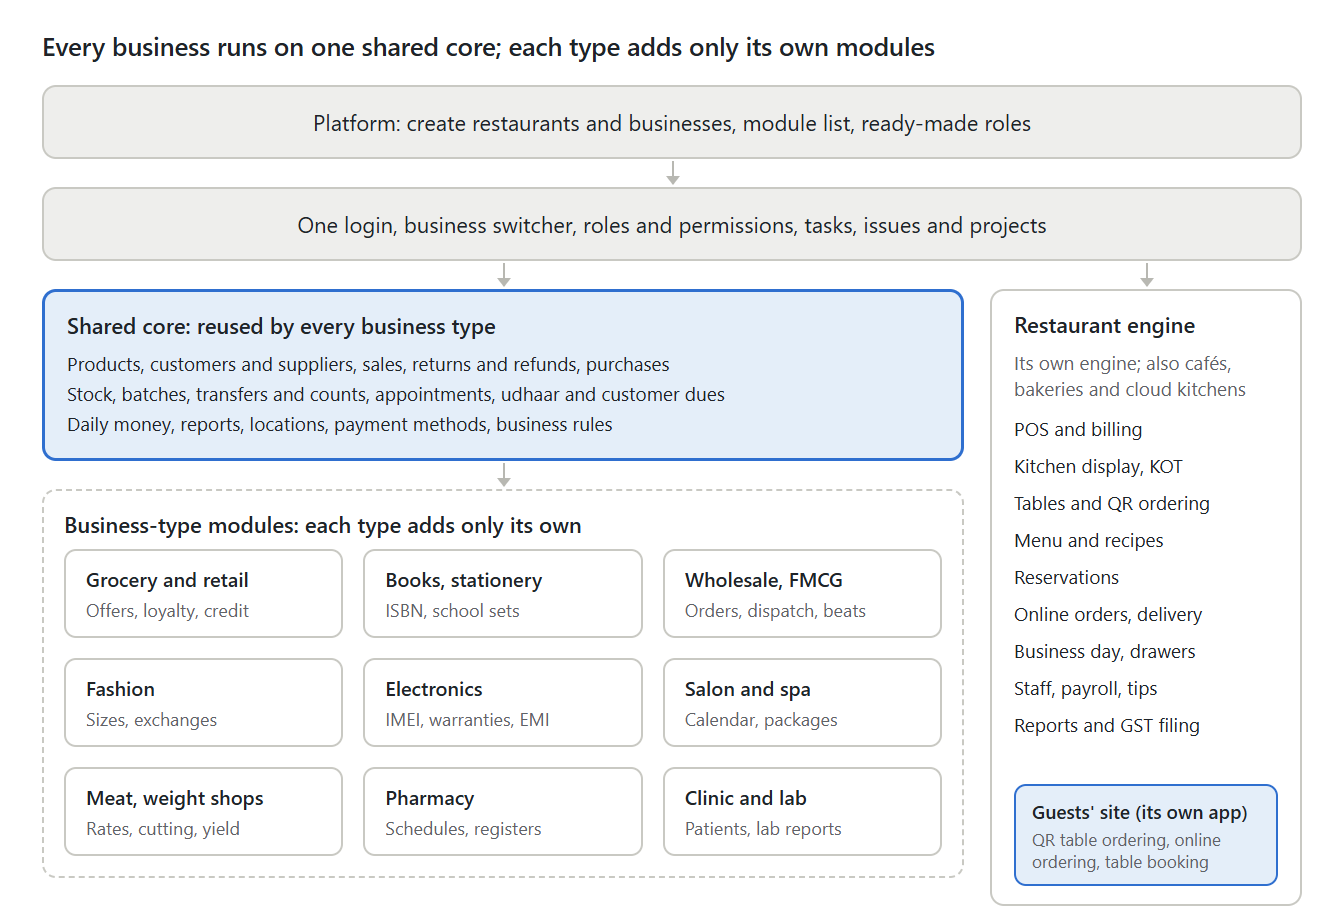
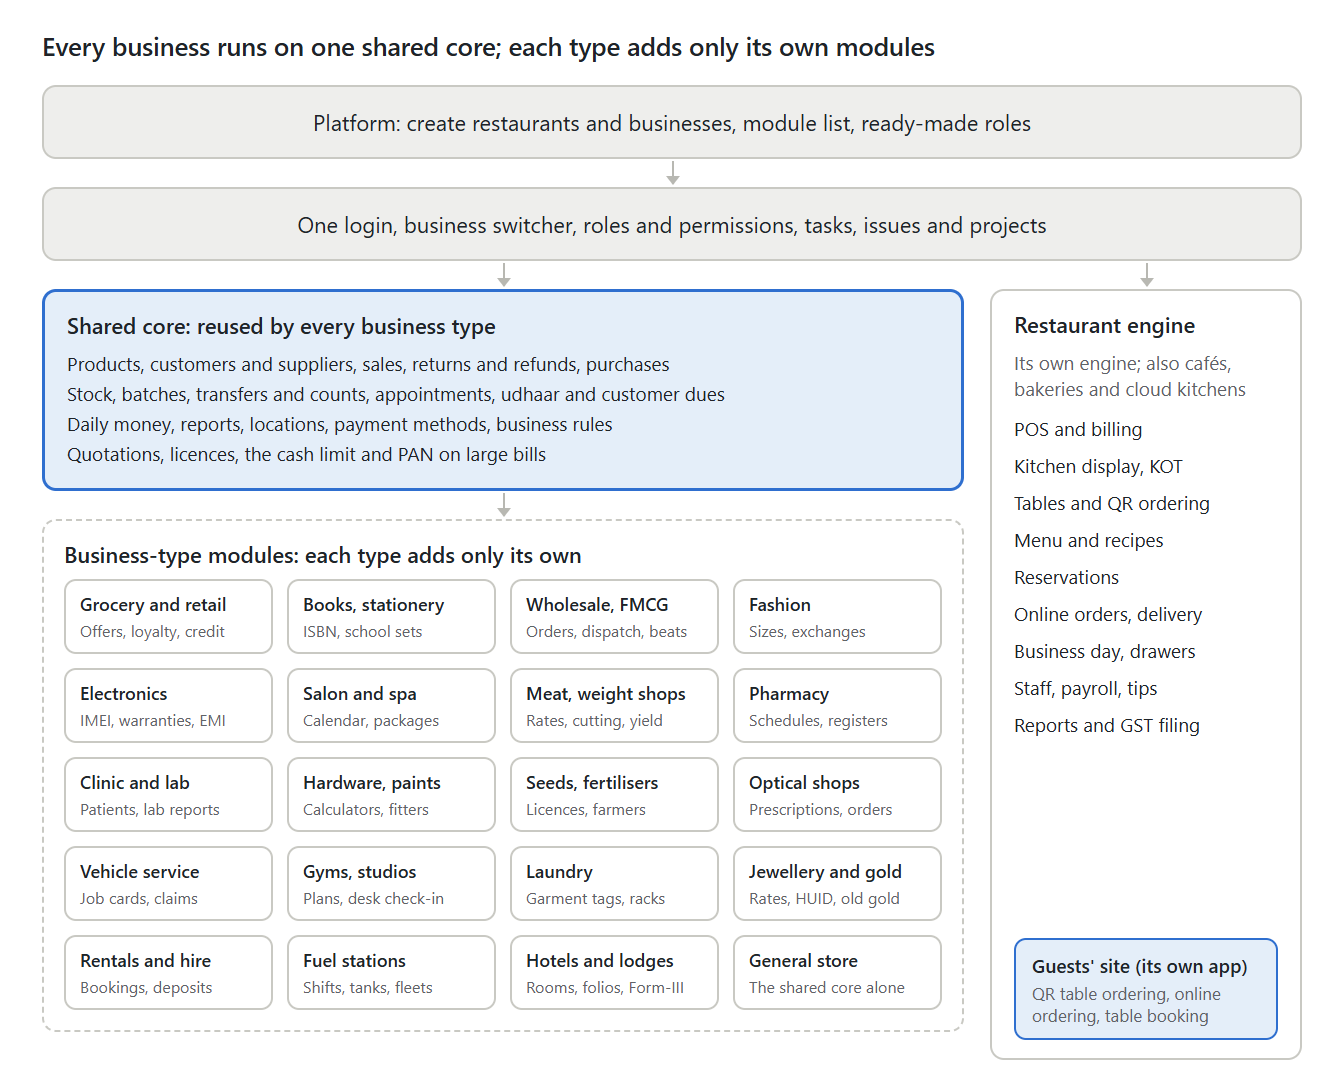
Overview diagram: every business type, and the newer shared tools
The diagram now shows all twenty business types (four cards a row) and
names quotations, licences, the cash limit and PAN in the shared core.

Changed region(s): [[0.0312, 0.0305, 0.9688, 0.9455], [0.75, 0.854, 0.9688, 1.0], [0.9375, 0.2745, 0.9688, 0.3355]]

diff --git a/docs/images/business-admin-overview.html b/docs/images/business-admin-overview.html
@@ -34,10 +34,10 @@
   .core h2, .types h2, .engine h2 { margin: 0 0 10px; font-size: 22px; font-weight: 600; }
   .core p { margin: 4px 0; font-size: 19px; }
   .types { border: 2px dashed var(--line); border-radius: 14px; padding: 18px 20px 20px; }
-  .grid { display: grid; grid-template-columns: repeat(3, 1fr); gap: 20px; }
-  .card { background: var(--card); border: 2px solid var(--line); border-radius: 12px; padding: 14px 20px; }
-  .card strong { display: block; font-size: 20px; font-weight: 600; }
-  .card span { display: block; margin-top: 6px; font-size: 18px; color: var(--quiet); }
+  .grid { display: grid; grid-template-columns: repeat(4, 1fr); gap: 14px; }
+  .card { background: var(--card); border: 2px solid var(--line); border-radius: 12px; padding: 11px 14px; }
+  .card strong { display: block; font-size: 18px; font-weight: 600; }
+  .card span { display: block; margin-top: 4px; font-size: 16px; color: var(--quiet); }
   .engine { border: 2px solid var(--line); border-radius: 14px; padding: 18px 22px; height: 100%; display: flex; flex-direction: column; }
   .engine .sub { color: var(--quiet); font-size: 19px; margin: 0 0 14px; }
   .engine ul { list-style: none; margin: 0; padding: 0; }
@@ -61,6 +61,7 @@
         <p>Products, customers and suppliers, sales, returns and refunds, purchases</p>
         <p>Stock, batches, transfers and counts, appointments, udhaar and customer dues</p>
         <p>Daily money, reports, locations, payment methods, business rules</p>
+        <p>Quotations, licences, the cash limit and PAN on large bills</p>
       </div>
       <div class="arrow left"></div>
       <div class="types">
@@ -75,6 +76,17 @@
           <div class="card"><strong>Meat, weight shops</strong><span>Rates, cutting, yield</span></div>
           <div class="card"><strong>Pharmacy</strong><span>Schedules, registers</span></div>
           <div class="card"><strong>Clinic and lab</strong><span>Patients, lab reports</span></div>
+          <div class="card"><strong>Hardware, paints</strong><span>Calculators, fitters</span></div>
+          <div class="card"><strong>Seeds, fertilisers</strong><span>Licences, farmers</span></div>
+          <div class="card"><strong>Optical shops</strong><span>Prescriptions, orders</span></div>
+          <div class="card"><strong>Vehicle service</strong><span>Job cards, claims</span></div>
+          <div class="card"><strong>Gyms, studios</strong><span>Plans, desk check-in</span></div>
+          <div class="card"><strong>Laundry</strong><span>Garment tags, racks</span></div>
+          <div class="card"><strong>Jewellery and gold</strong><span>Rates, HUID, old gold</span></div>
+          <div class="card"><strong>Rentals and hire</strong><span>Bookings, deposits</span></div>
+          <div class="card"><strong>Fuel stations</strong><span>Shifts, tanks, fleets</span></div>
+          <div class="card"><strong>Hotels and lodges</strong><span>Rooms, folios, Form-III</span></div>
+          <div class="card"><strong>General store</strong><span>The shared core alone</span></div>
         </div>
       </div>
     </div>
